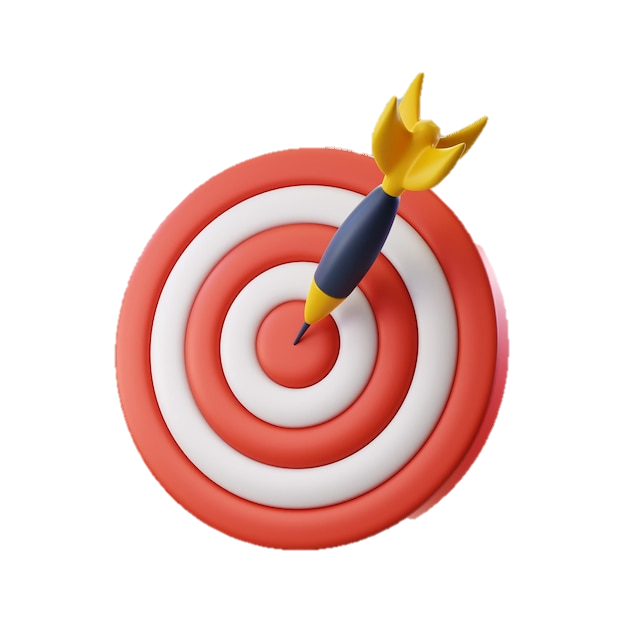
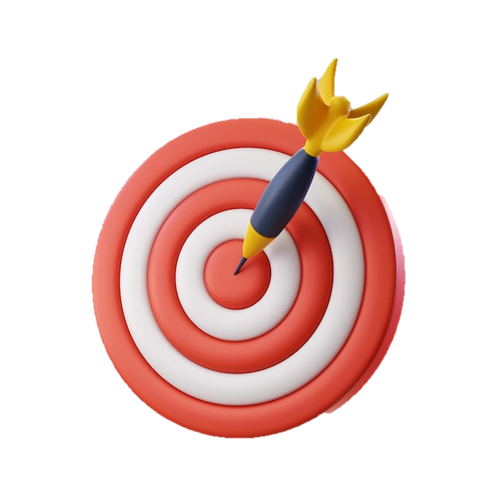
se quita el fondo de las imagenes

diff --git a/resources/views/public/home/index.blade.php b/resources/views/public/home/index.blade.php
@@ -66,7 +66,7 @@
                 </p>
             </div>
             <div class="col-5 ml-5">
-                <img class="ml-5" src="{{ asset('img/planet_.png') }}" width="530" height="415" alt="">
+                <img class="ml-5" src="{{ asset('img/planet.png') }}" width="530" height="415" alt="">
             </div>
         </div>
         <!-- 3 row -->
